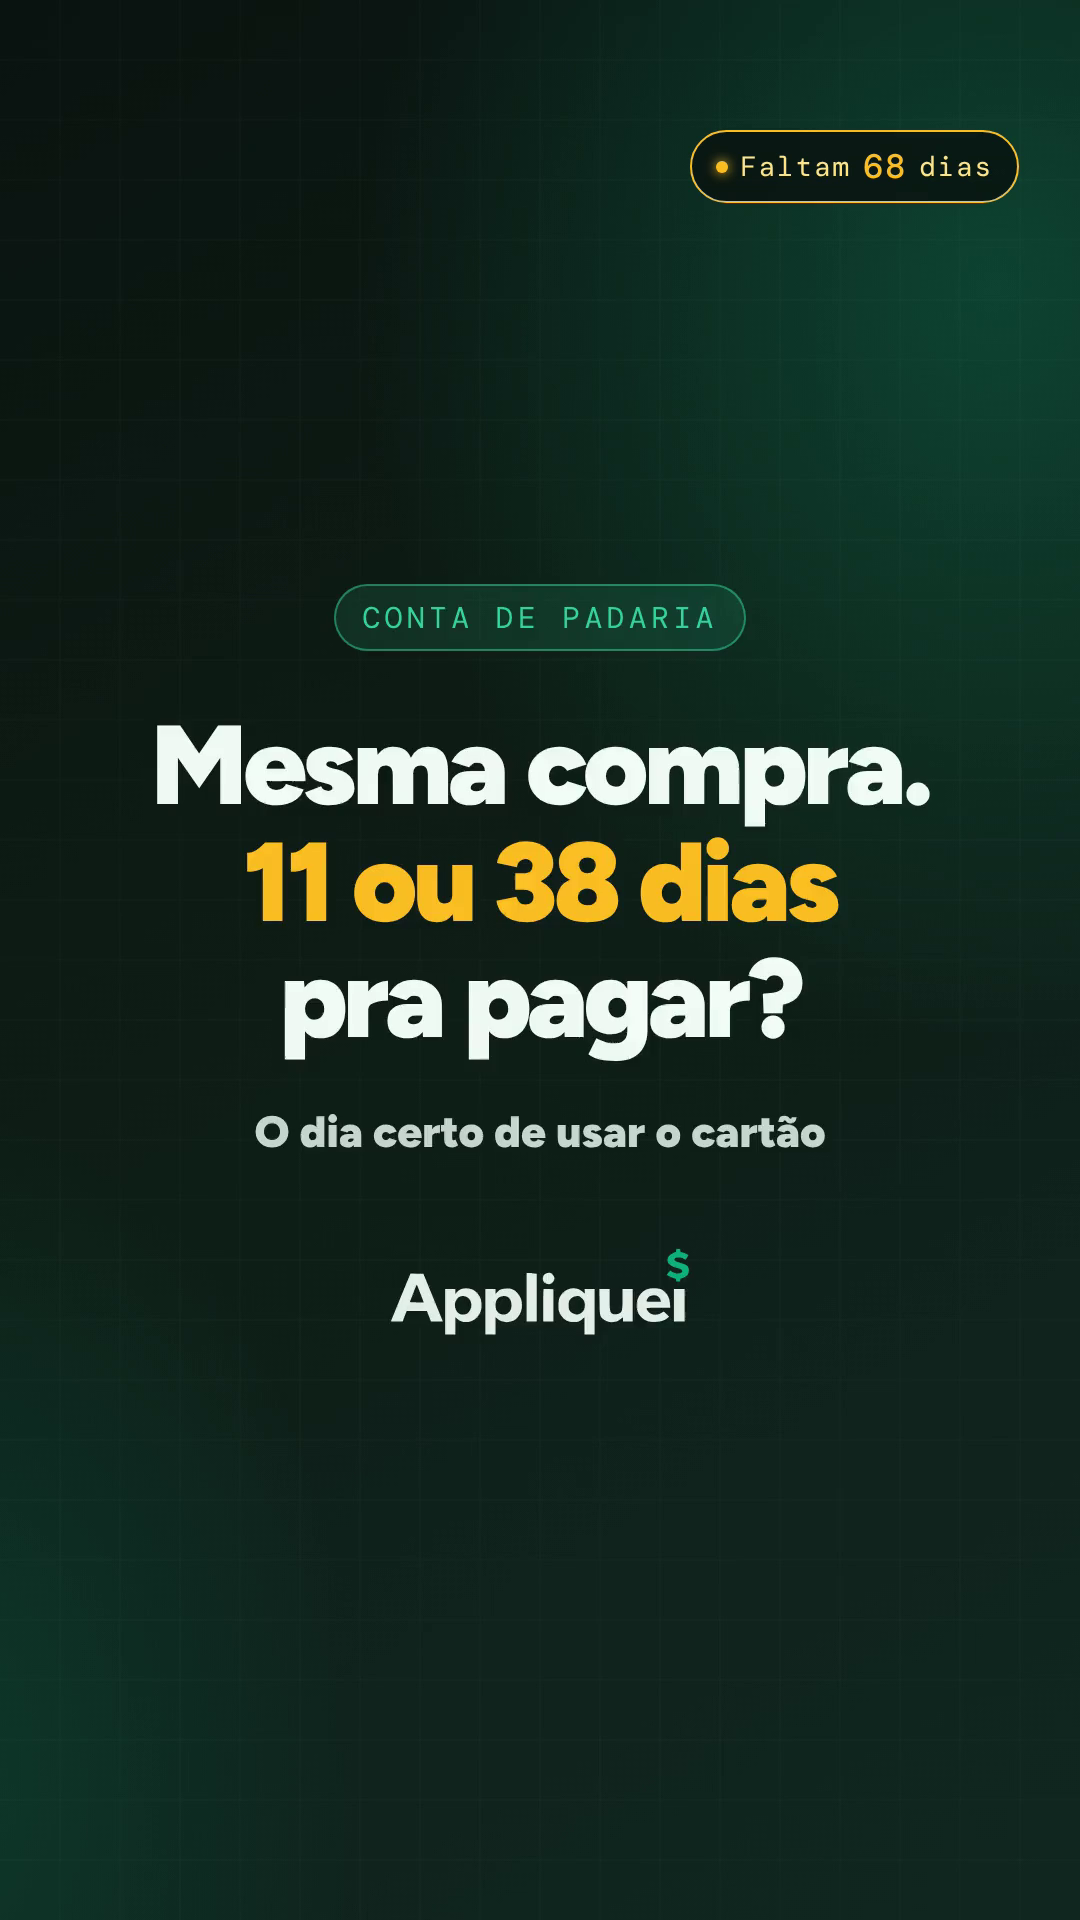
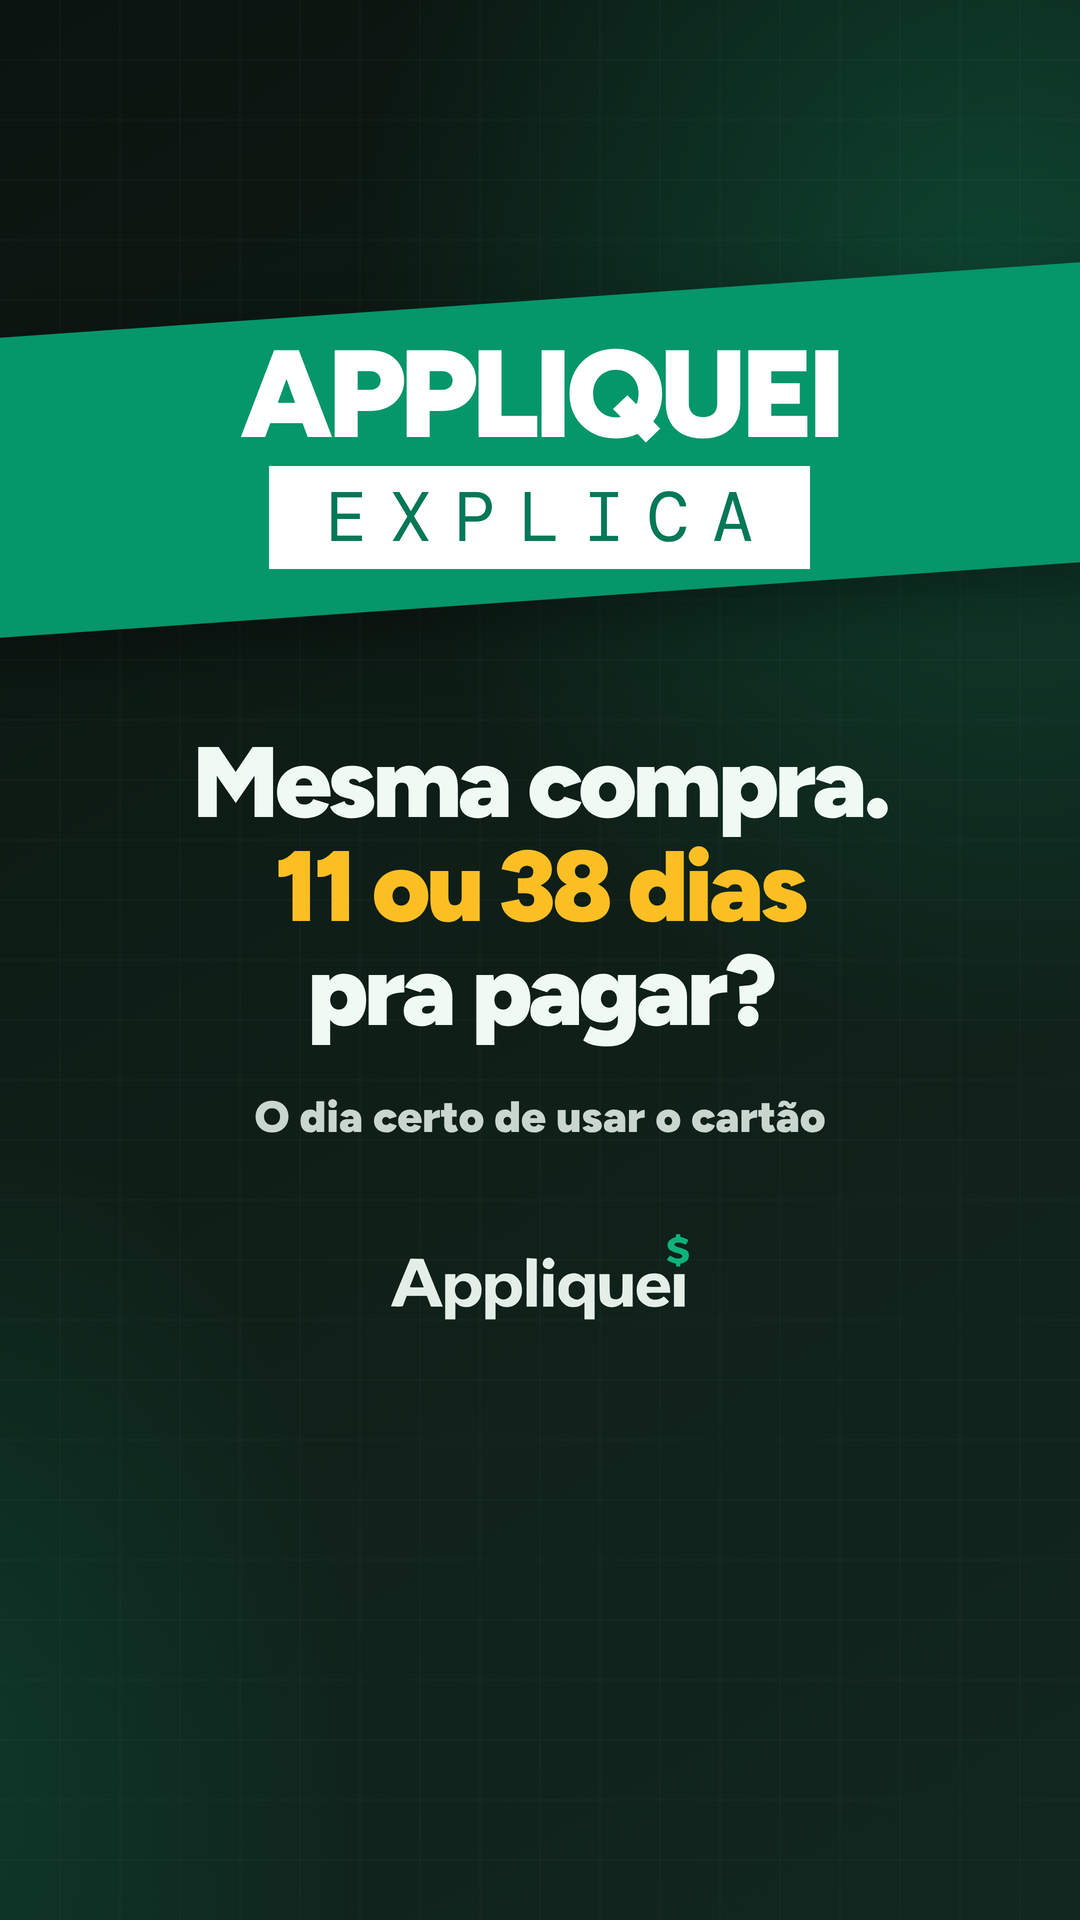
Marketing: capas com faixa livre do ícone do Instagram e plano do perfil a partir do print de 05/11
Claude-Session: https://claude.ai/code/session_01Hjqp9BZBHRq7RefmKXkXic

Changed region(s): [[0.0, 0.0625, 1.0, 0.3438], [0.1222, 0.375, 0.8556, 0.625], [0.3667, 0.625, 0.6417, 0.6875]]

diff --git a/marketing/ferramentas/shorts/capa.js b/marketing/ferramentas/shorts/capa.js
@@ -68,14 +68,14 @@ svg.malha { position: absolute; inset: 0; }
 .faixa-news { position: absolute; left: -40px; right: -40px; top: 300px; height: 300px; background: #b91c1c;
   display: flex; flex-direction: column; align-items: center; justify-content: center; transform: skewY(-4deg);
   box-shadow: 0 24px 60px rgba(0,0,0,.35); }
-.faixa-news b { font-size: 150px; font-weight: 900; letter-spacing: -.045em; line-height: 1; color: #fff; transform: skewY(4deg); }
+.faixa-news b { font-size: 124px; font-weight: 900; letter-spacing: -.045em; line-height: 1; color: #fff; transform: skewY(4deg); }
 .faixa-news span { margin-top: 10px; padding: 6px 34px; background: #fff; color: #b91c1c; font-family: 'DM Mono', monospace;
   font-size: 70px; letter-spacing: .32em; text-indent: .32em; transform: skewY(4deg); }
 .faixa-news.explica { background: #059669; }
 .faixa-news.ouro { background: linear-gradient(100deg, #a86b12 0%, #f6d365 18%, #fff3c4 28%, #e2a72e 42%, #b97a17 58%, #f9dc7a 74%, #fff1b8 82%, #c88a1e 100%); border-top: 3px solid #fff1b8; border-bottom: 3px solid #8a5a0c; }
-.faixa-news.ouro img { width: 640px; transform: skewY(4deg); }
+.faixa-news.ouro img { width: 600px; transform: skewY(4deg); }
 .faixa-news.lanc-verde { background: #059669; }
-.faixa-news.lanc-verde img { width: 640px; transform: skewY(4deg); }
+.faixa-news.lanc-verde img { width: 600px; transform: skewY(4deg); }
 .aviso-lanc { padding: 14px 34px; border-radius: 99px; background: linear-gradient(100deg, #a86b12 0%, #f6d365 18%, #fff3c4 28%, #e2a72e 42%, #b97a17 58%, #f9dc7a 74%, #fff1b8 82%, #c88a1e 100%); font-family: 'DM Mono', monospace; font-weight: 500;
   font-size: 40px; letter-spacing: .14em; text-transform: uppercase; color: #2a1a04; margin-bottom: 56px; box-shadow: 0 10px 24px rgba(0,0,0,.4); }
 .faixa-news.explica span { color: #047857; }

diff --git a/.claude/skills/marketing-saas/referencias/crescimento.md b/.claude/skills/marketing-saas/referencias/crescimento.md
@@ -70,25 +70,35 @@ Reel da grade"). O mesmo vídeo já vai para Instagram, TikTok e YouTube às
 
 ### 3. Perfil que converte visita em seguidor (81 visitas, 0 seguiram)
 
-Quem chega ao perfil decide em 3 s. Quem faz é o sócio (dono do Instagram),
-uma vez só (passo a passo mandado em 05/11):
+**Como estava (print de 05/11):** nome "Appliquei"; bio genérica ("Seu
+dinheiro precisa de direção… Organize suas finanças… Em breve!") que não diz
+o que a pessoa ganha seguindo; os 3 fixados eram o banner Missão/Visão/
+Valores (fala da empresa, não de quem chega); dois Reels com o selo antigo
+"Conta de Padaria" (nome rejeitado em 29/10); "Toda semana, dois encontros
+marcados" anuncia a grade velha; e o ícone de Reel/fixado do Instagram cobria
+o "I" de APPLIQUEI nas capas com faixa (corrigido em `capa.js` em 05/11:
+faixa com 124 px, livre do canto superior direito).
+
+Quem faz é o sócio (dono do Instagram), uma vez só:
 
 1. **Nome** (Editar perfil › Nome, entra na busca): `Appliquei • Finanças pessoais`.
-2. **Bio:** promessa + grade + data, sem citar o app (até 26/12 ele não
-   aparece):
+2. **Bio** (sem citar o app até 26/12):
    `A conta do dinheiro do dia a dia que ninguém te mostra 🧮` /
    `💡 Seg e sex: Appliquei Explica` / `📰 Qua: Appliquei News` /
    `⏳ 02/01/2027: vem aí`.
-3. **Fixar 3 Reels** (⋯ › Fixar no perfil), pelos números de 05/11: a
+3. **Desafixar o banner** Missão/Visão/Valores (os 3 posts continuam juntos
+   no fim da grade, então o banner não se desmonta) e **fixar 3 Reels**: a
    geladeira (melhor retenção, 22%), "O banco te paga R$ 7" (melhor
    compartilhamento, 3,5%) e "Parcelado ou à vista?" (mais views, 293).
-   Trocar quando outro Reel passar um deles.
-4. **Arquivar** (⋯ › Arquivar, dá para desfazer) o que anuncia coisa velha:
-   "Agora tem hora marcada por aqui" (anuncia a grade antiga, News ter e qui)
-   e o Reel do propósito (45 views, fala do app antes da hora).
-5. **Link da bio:** não existe lista de espera, então não prometer uma
-   (CONAR). Até 26/12, sem link ou o que já estiver; em 26/12 entra a página
-   do app com o teste grátis.
+4. **Trocar a capa** desses 3 (⋯ › Editar › Editar capa › da galeria, se o
+   app oferecer) pelas capas novas com faixa (`publicar/01-…`, `02-…`,
+   `05-…-capa.png`): grade com cara de série e sem "Conta de Padaria".
+5. **Arquivar** (⋯ › Arquivar, dá para desfazer): "Toda semana, dois
+   encontros marcados" (grade velha) e "Por que o Appliquei existe?".
+6. **Link da bio:** não existe lista de espera, então não prometer uma
+   (CONAR). Até 26/12, sem link; em 26/12 entra a página do app.
+7. **Foto:** só o ícone verde, grande, sem a palavra (no círculo pequeno a
+   palavra "Appliquei" fica ilegível).
 
 ### 4. Pedir o "seguir" com motivo
 
